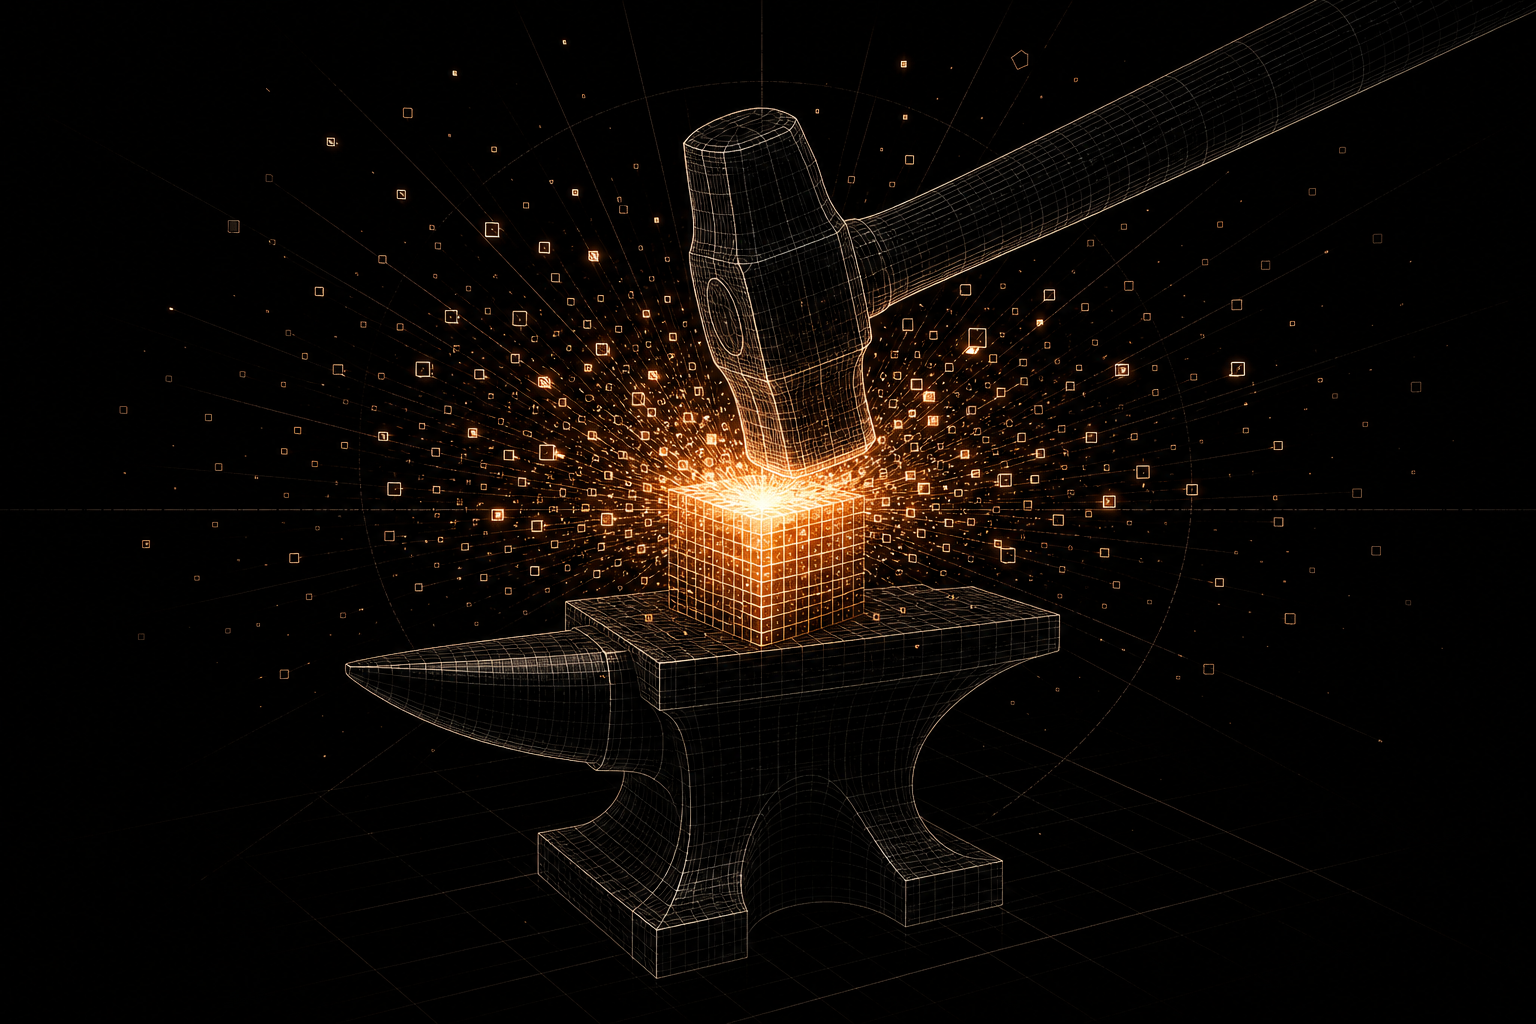
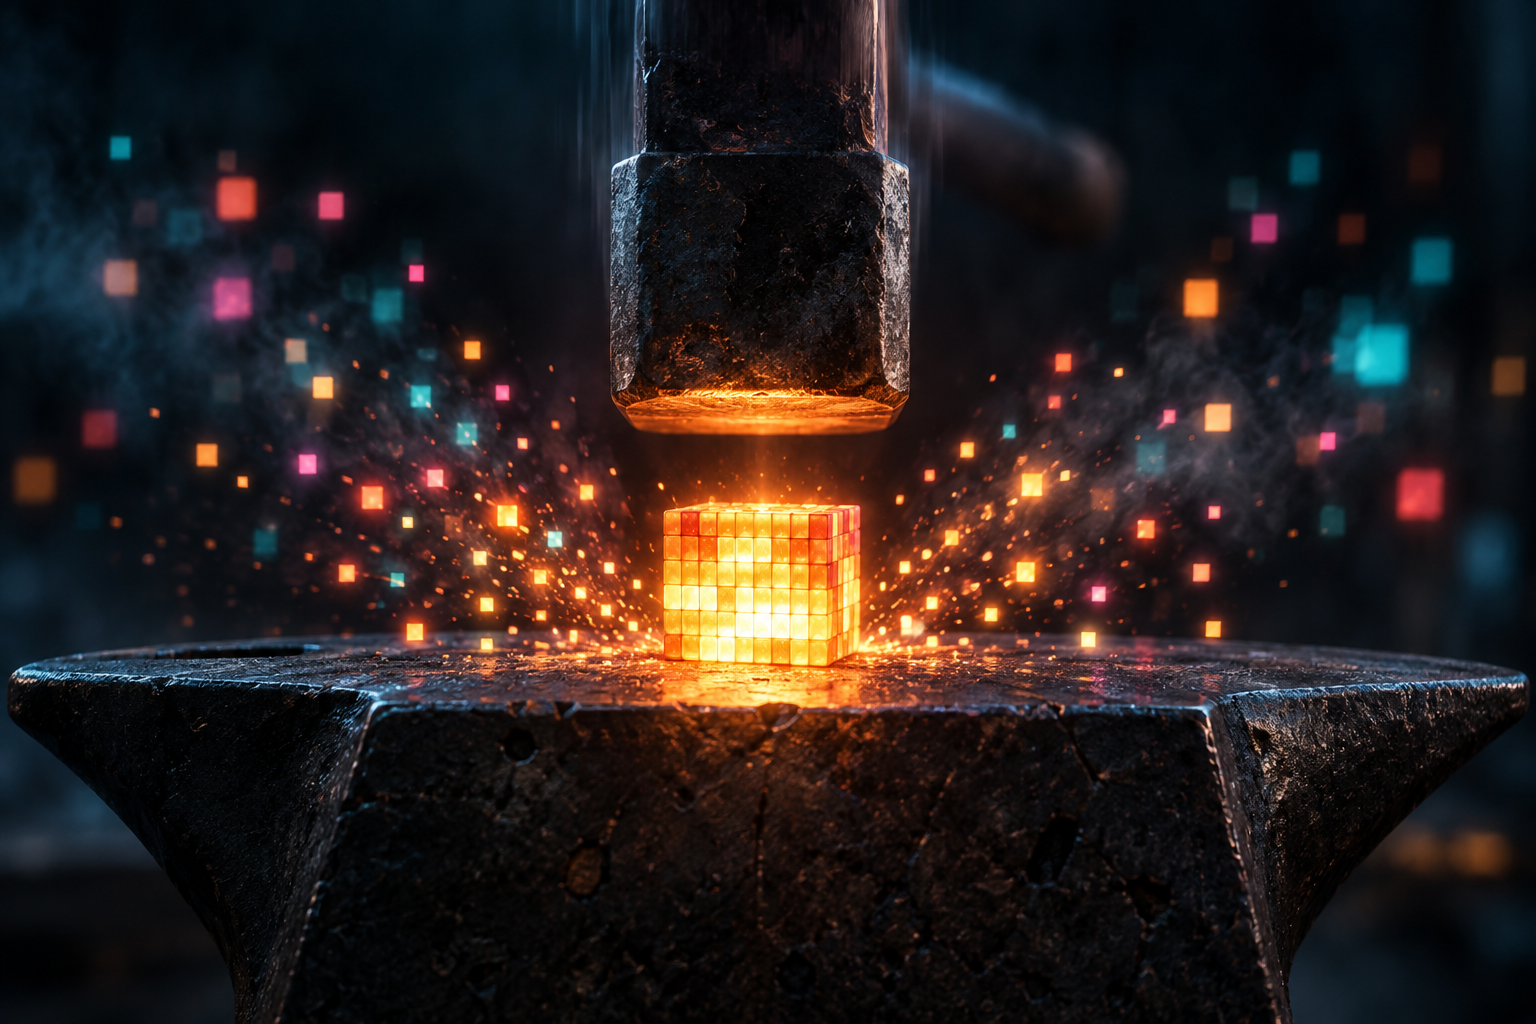
docs: new README hero image
Generated with Pixmith itself (gpt-image-2 via Codex, 1536x1024): a
cinematic, centred take on the pixel forge, replacing the wireframe render.

diff --git a/README.md b/README.md
@@ -1,7 +1,7 @@
 # Pixmith
 
 <p align="center">
-  <img src="assets/hero.png" alt="Pixmith — a wireframe hammer striking a glowing pixel on an anvil, sparks of light bursting outward" width="100%">
+  <img src="assets/hero.png" alt="Pixmith — a forging hammer coming down on a glowing cube of pixels on an anvil, square embers scattering to both sides" width="100%">
 </p>
 
 [![License: MIT](https://img.shields.io/badge/License-MIT-yellow.svg)](LICENSE)
